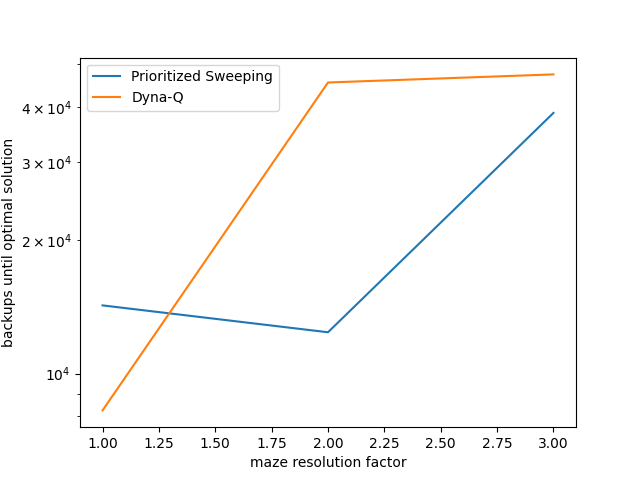
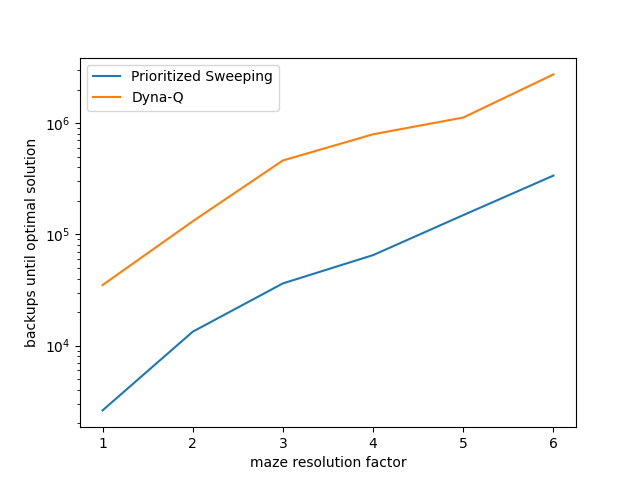
feat: example_8_4 result updated

diff --git a/RL_an_introduction/ch08/example_8_4.py b/RL_an_introduction/ch08/example_8_4.py
@@ -115,16 +115,16 @@ def example_8_4_parallel():
     models = [PriorityModel, TrivialModel]
     method_names = ['Prioritized Sweeping', 'Dyna-Q']
     
-    num_of_mazes = 5
+    num_of_mazes = 6
     
     mazes = [original_maze.extend_maze(i) for i in range(1, num_of_mazes + 1)]
     methods = [prioritized_sweeping, dyna_q]
     
-    runs = 5
+    runs = 6
     all_backups = []
 
     # Use ProcessPoolExecutor to parallelize the runs
-    with ProcessPoolExecutor(max_workers=5) as executor:
+    with ProcessPoolExecutor() as executor:
         futures = [executor.submit(run_experiment, run, method_names, models, methods, params, mazes, num_of_mazes, params_dyna) for run in range(runs)]
         for future in futures:
             all_backups.append(future.result())
